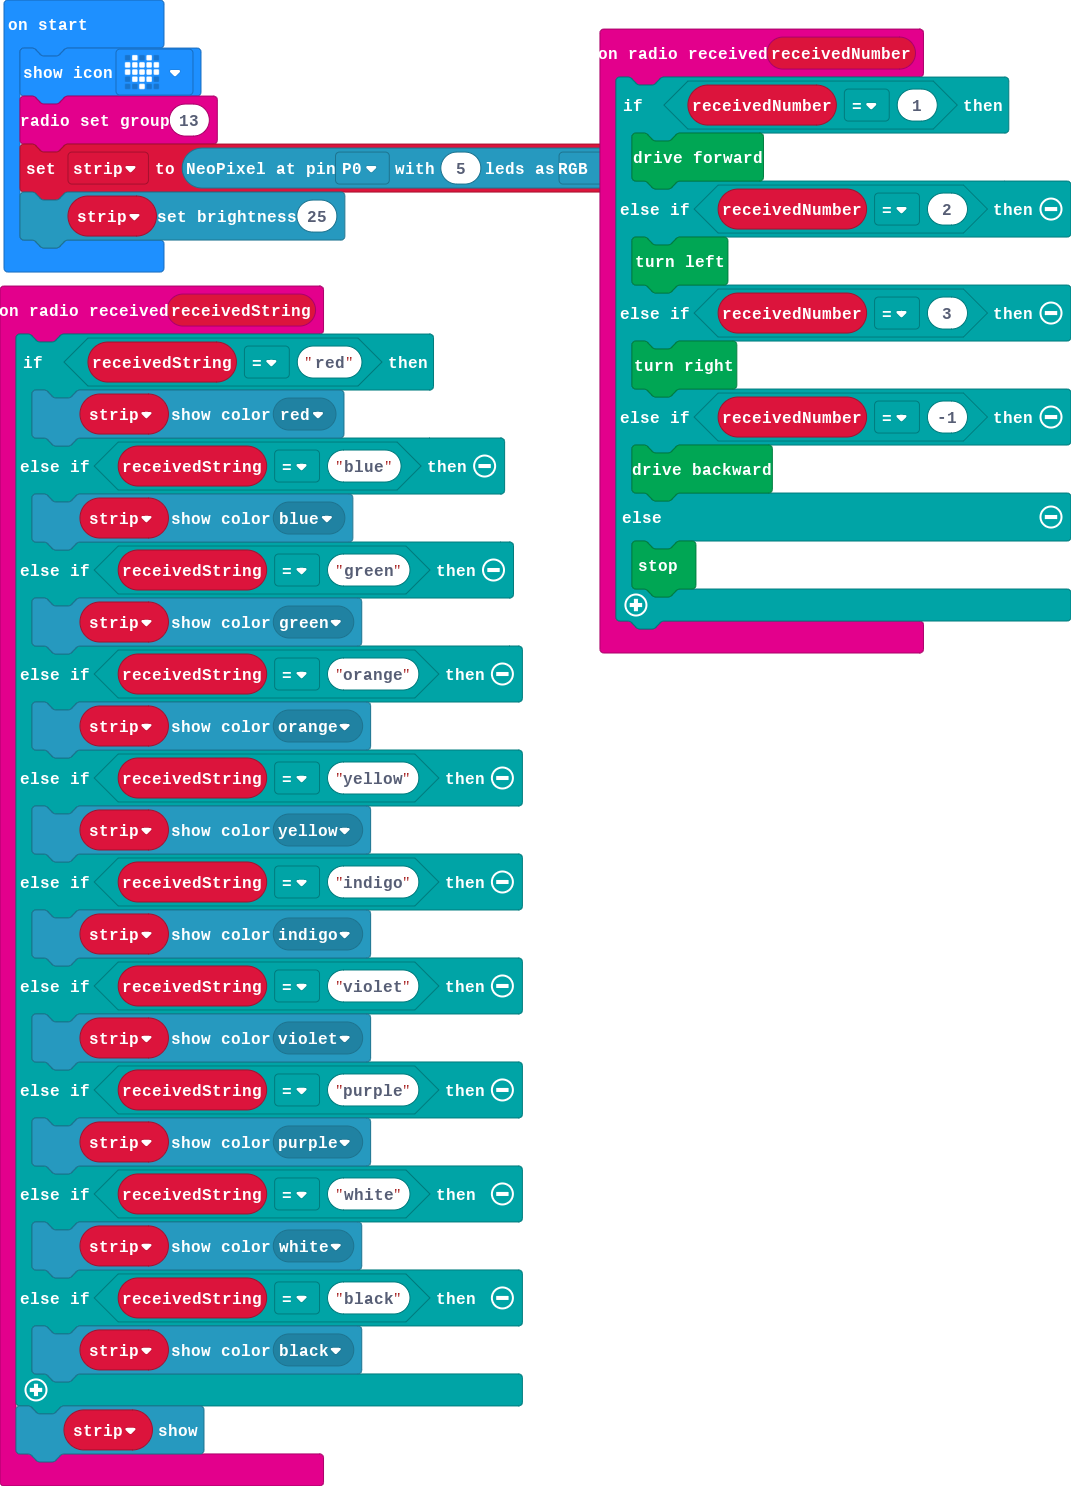
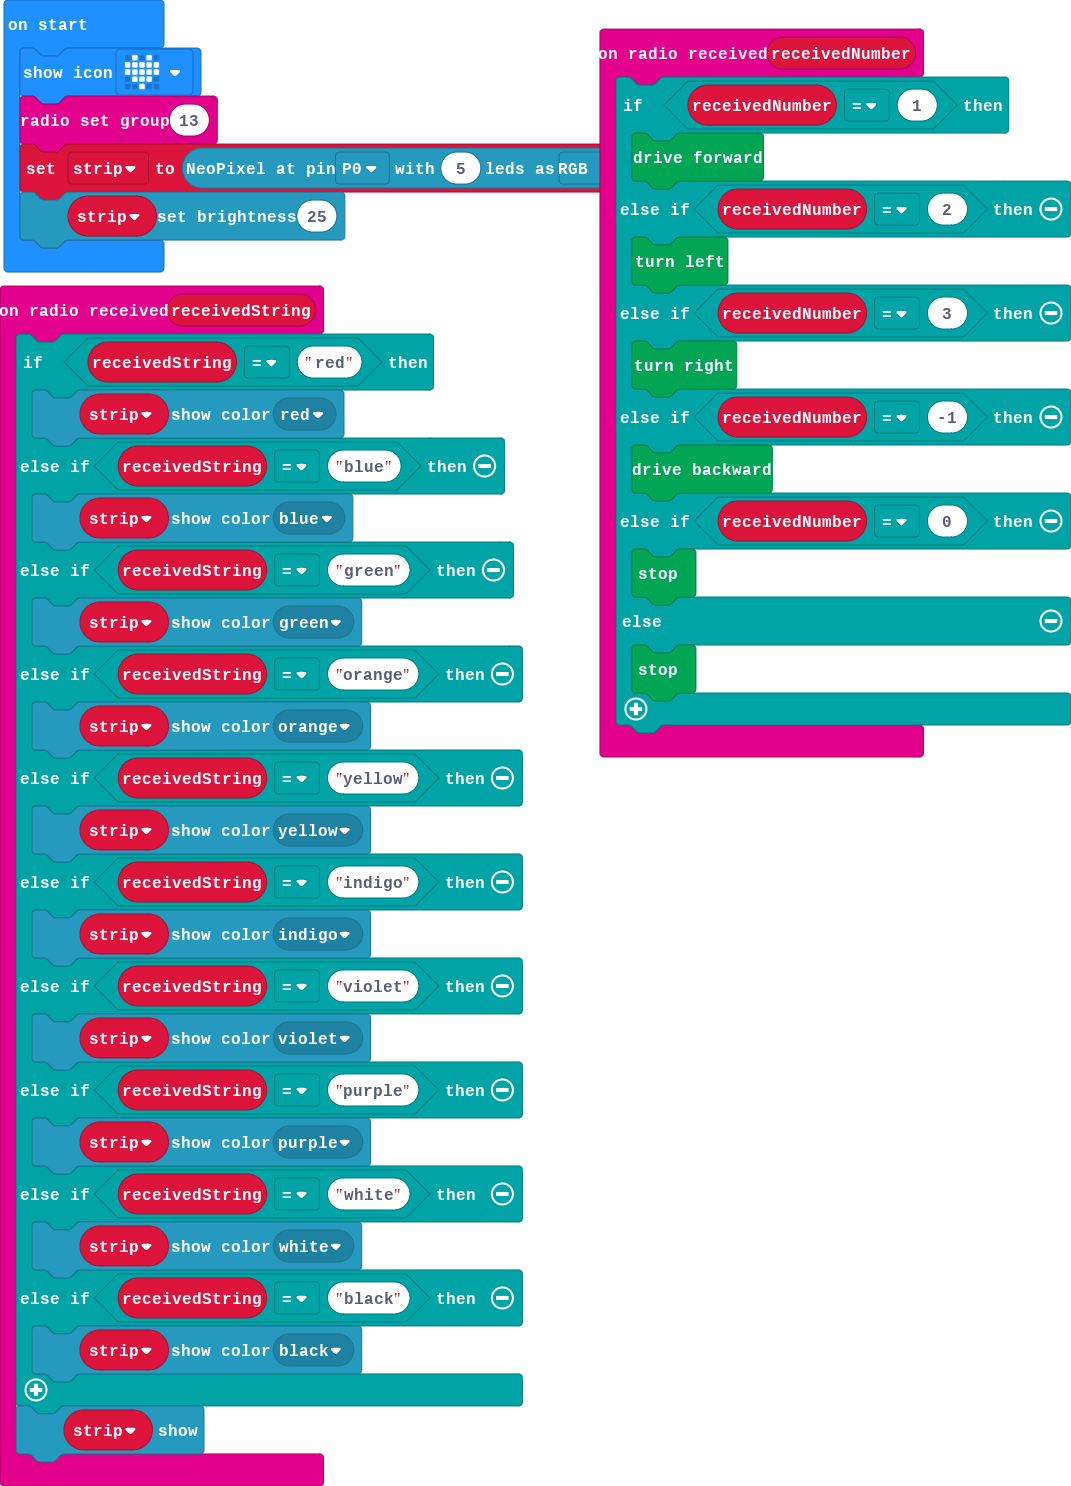
Update main.blocks, main.ts

Changed region(s): [[0.5546, 0.3096, 1.0, 0.5262]]

diff --git a/main.ts b/main.ts
@@ -31,6 +31,8 @@ radio.onReceivedNumber(function (receivedNumber) {
         kitronik_servo_lite.right()
     } else if (receivedNumber == -1) {
         kitronik_servo_lite.backward()
+    } else if (receivedNumber == 0) {
+        kitronik_servo_lite.stop()
     } else {
         kitronik_servo_lite.stop()
     }
